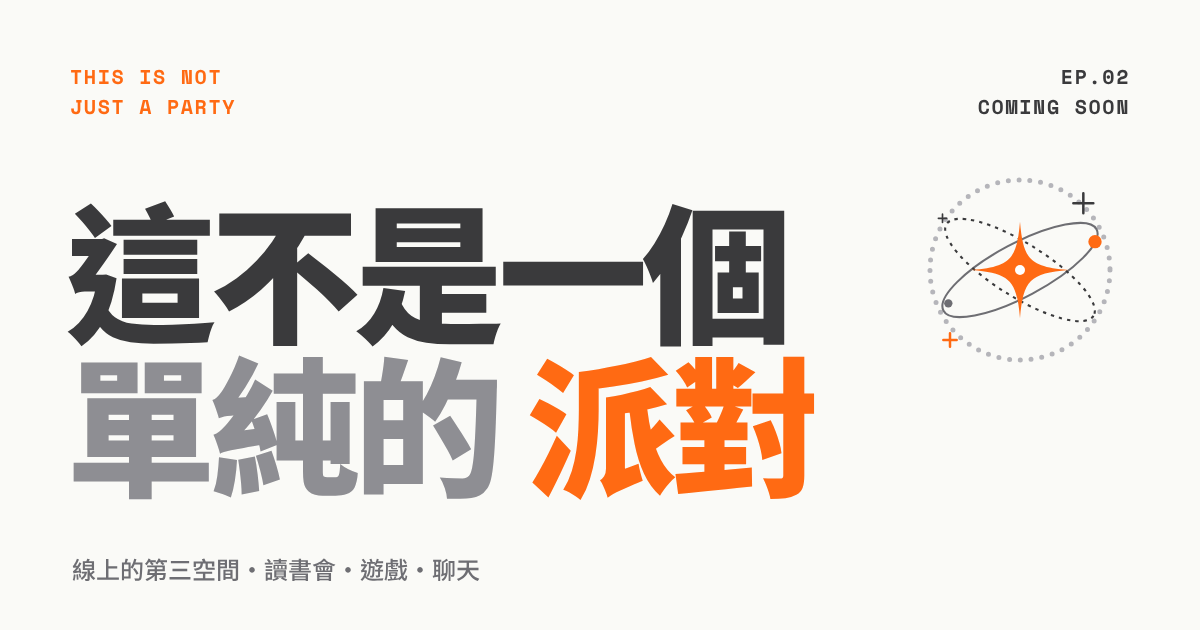
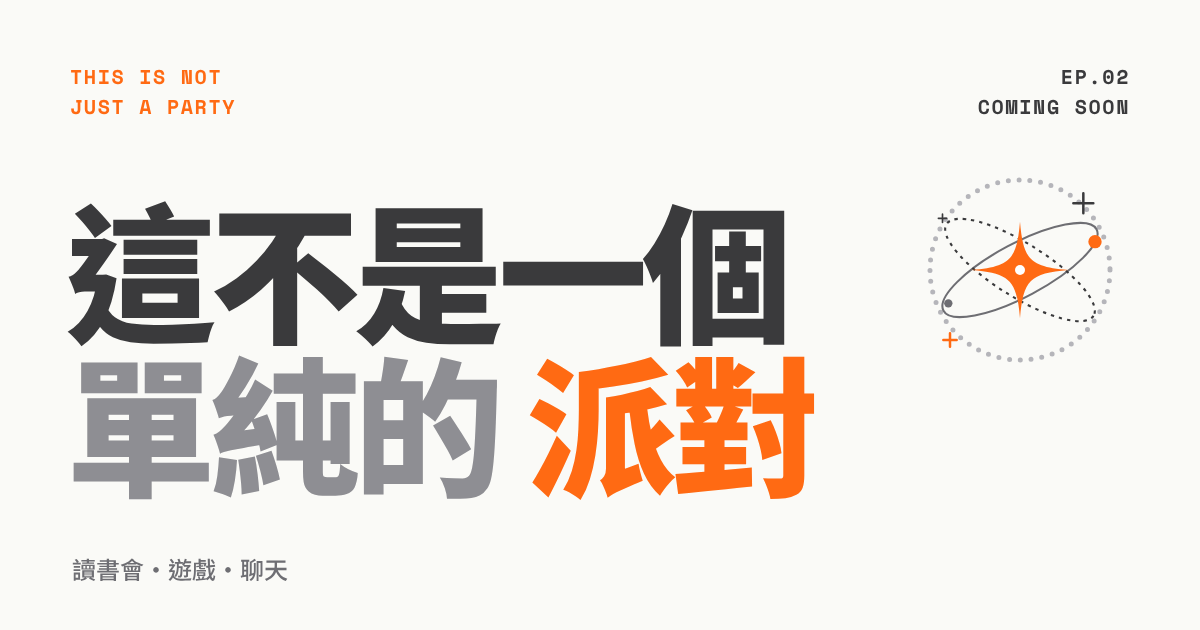
首頁拿掉「一個線上的第三空間」
Claude-Session: https://claude.ai/code/session_01XPCCAtWiM1YRZXVrTY7k8Z

Changed region(s): [[0.0617, 0.8746, 0.4008, 0.9349]]

diff --git a/public/index.html b/public/index.html
@@ -5,11 +5,11 @@
 <meta name="viewport" content="width=device-width, initial-scale=1, viewport-fit=cover">
 <style>body{margin:0}[hidden]{display:none!important}img{max-width:100%}</style>
 <title>這不是一個單純的派對</title>
-<meta name="description" content="一個線上的第三空間：開讀書會、玩遊戲、聊天，領一張你的識別證就能進來。">
+<meta name="description" content="開讀書會、玩遊戲、聊天，領一張你的識別證就能進來。">
 <meta property="og:type" content="website">
 <meta property="og:site_name" content="這不是一個">
 <meta property="og:title" content="這不是一個單純的派對">
-<meta property="og:description" content="一個線上的第三空間：開讀書會、玩遊戲、聊天，領一張你的識別證就能進來。">
+<meta property="og:description" content="開讀書會、玩遊戲、聊天，領一張你的識別證就能進來。">
 <meta property="og:url" content="__ORIGIN__/">
 <meta property="og:image" content="__ORIGIN__/og.png">
 <meta property="og:image:width" content="1200">
@@ -330,7 +330,7 @@ a:focus-visible, button:focus-visible { outline: 3px solid var(--accent); outlin
       <span class="big soft">單純的</span>
       <span class="big hot" id="hero-word">派對</span>
     </div>
-    <p class="hero-lede">一個<b>線上的第三空間</b>。在這裡開讀書會、玩遊戲、聊天，或是做事的時候上來掛著。</p>
+    <p class="hero-lede">在這裡開讀書會、玩遊戲、聊天，或是做事的時候上來掛著。</p>
   </section>
 
   <!-- Log in -->
